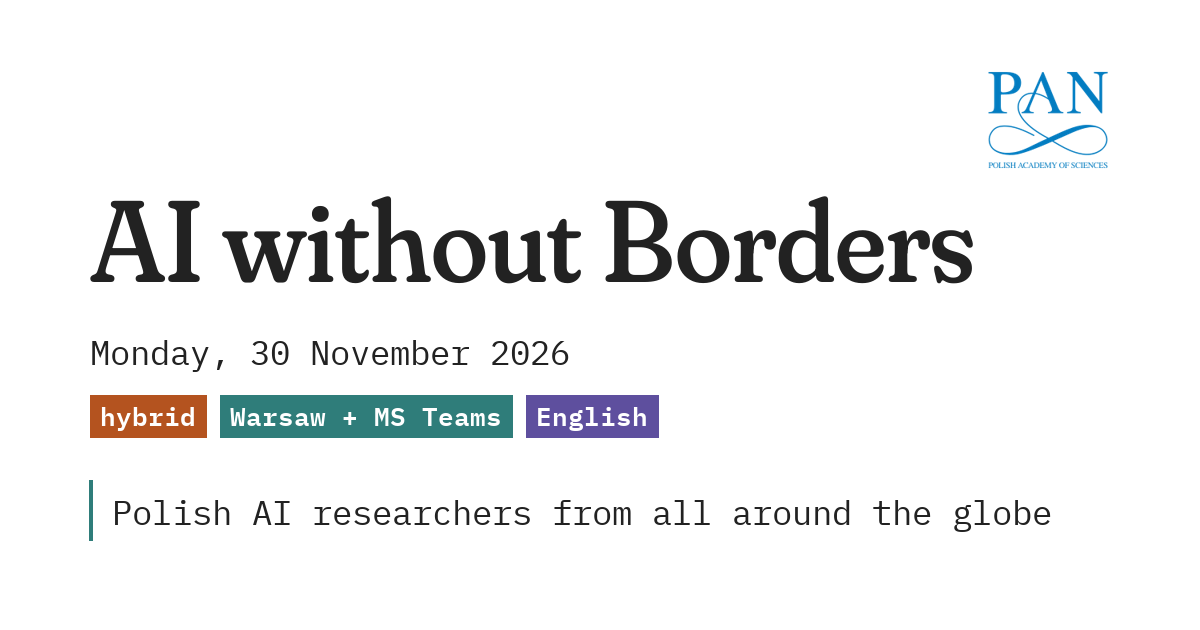
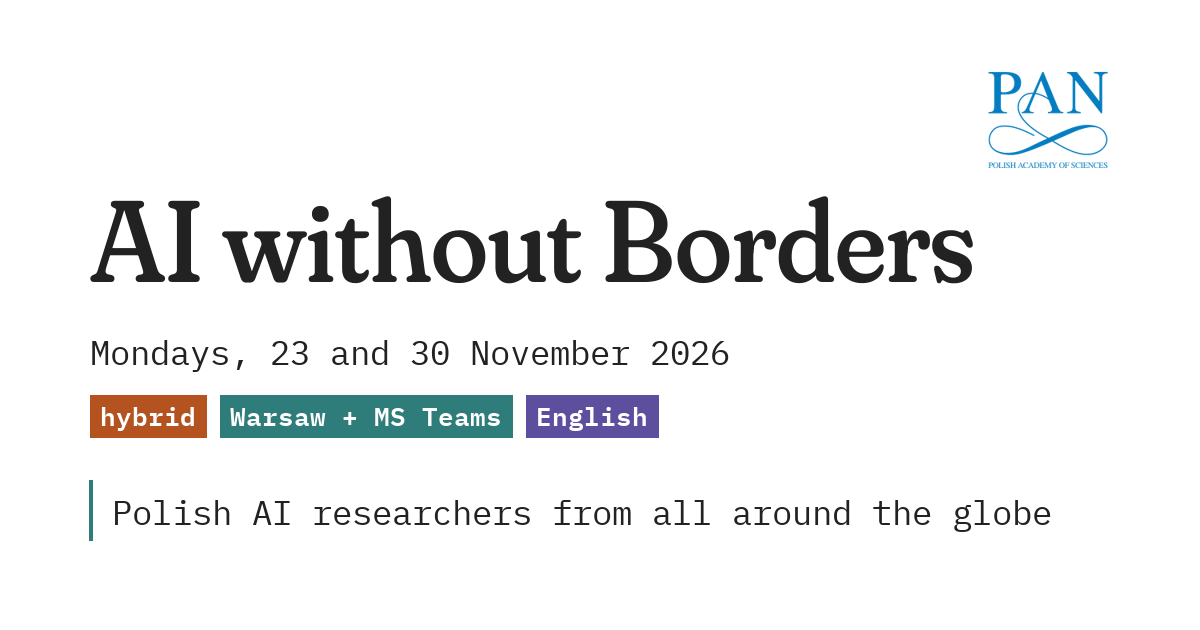
Day 1: photos, websites and bios for five speakers; share image dates

Changed region(s): [[0.185, 0.5429, 0.6167, 0.6032]]

diff --git a/data/program.js b/data/program.js
@@ -40,9 +40,9 @@ window.EVENTS = [
         speaker: "Tomaž Erjavec",
         affiliation: "Jožef Stefan Institute",
         photo: "photos/erjavec.jpg",
-        website: "",
+        website: "https://nl.ijs.si/et/",
         title: "ParlaMint – Comparable and Interoperable Parliamentary Corpora",
-        bio: "",
+        bio: "Tomaž Erjavec is a Scientific and Professional Counselor in the Department of Knowledge Technologies at the Jožef Stefan Institute in Ljubljana, and works part-time at the Fran Ramovš Institute of the Slovenian Language, ZRC SAZU. He works on language corpora, text encoding standards, digital humanities and language technologies for Slovene. He coordinates CLARIN.SI and received the 2021 Steven Krauwer Award for CLARIN Achievements, partly for his ParlaMint parliamentary corpora.",
         abstract: "The talk presents the ParlaMint corpora of parliamentary debates (https://www.clarin.eu/parlamint) of 29 European countries and autonomous regions, covering at least the period from 2015 to 2022, and containing over 1 billion words. The corpora are uniformly encoded, contain rich metadata about their 24 thousand speakers, and are linguistically annotated, as well as machine translated to English. We present the compilation of the corpora, including the encoding infrastructure, use of GitHub, the production of individual corpora, the common pipeline for producing their distribution, and use of CLARIN services for dissemination. We also present associated efforts, such corpora of additional countries, and the ParlaSpeech (https://clarinsi.github.io/parlaspeech/) corpora. Finally, the use of the corpora and further work are discussed.",
       },
       {
@@ -50,9 +50,9 @@ window.EVENTS = [
         speaker: "Maciej Ogrodniczuk",
         affiliation: "Institute of Computer Science, Polish Academy of Sciences",
         photo: "photos/ogrodniczuk.jpg",
-        website: "",
+        website: "https://language.ipipan.waw.pl/faculty/maciej-ogrodniczuk",
         title: "Beyond the Polish Parliamentary Corpus",
-        bio: "",
+        bio: "Maciej Ogrodniczuk is an Associate Professor and Head of the Department of Language Modelling at the Institute of Computer Science, Polish Academy of Sciences, in Warsaw. He received his PhD in linguistics in 2006. His research focuses on the semantic description of Polish, in particular automated analysis of reference relations and discourse. He leads his group's work in CLARIN-PL and the PressMint project on corpora of European historical newspapers.",
         abstract: "The Polish Parliamentary Corpus (https://clip.ipipan.waw.pl/PPC), which is also represented in ParlaMint, served as a model for a series of Polish corpora containing similar types of material, which are ideally suited to research into persuasion techniques. The presentation will introduce these datasets: the Round Table Corpus (https://clip.ipipan.waw.pl/PRTC), documenting the opposition’s negotiations with the communist authorities of the Polish People’s Republic in 1989, and the Polish Local Government Debates Corpus (https://zil.ipipan.waw.pl/LocalGovPL) – a collection of transcripts from the proceedings of provincial assemblies, city councils, county councils and local councils from 2018 to 2026.",
       },
       { time: "10:45–11:15", text: "Networking coffee break", kind: "break" },
@@ -62,9 +62,9 @@ window.EVENTS = [
         speaker: "Jakub Piskorski",
         affiliation: "Joint Research Centre of the European Commission",
         photo: "photos/piskorski.jpg",
-        website: "",
+        website: "http://www.piskorski.waw.pl/",
         title: "Multilingual Corpora of Persuasion Techniques in News and Parliamentary Debates",
-        bio: "",
+        bio: "Jakub Piskorski works on information extraction and media analysis, including disinformation and propaganda detection, persuasion techniques, framing and narrative extraction. He has worked at the Joint Research Centre of the European Commission in Ispra, Frontex and the German Research Center for Artificial Intelligence (DFKI), and is affiliated with the Institute of Computer Science, Polish Academy of Sciences. He co-organised SemEval 2025 Task 10 on narratives in online news.",
         abstract: "This talk provides an overview of recently developed multilingual corpora with text span-level annotation of persuasion techniques in online news, parliamentary debates, and other types of texts. The talk will elaborate on the corpora characteristics, taxonomies, creation process, and annotation complexity aspects. The talk will also reflect on the experience gained from shared tasks revolving around detection and classification of persuasion techniques which exploit these corpora, and covers state-of-the-art performance and cross-corpora comparison.",
       },
       {
@@ -72,9 +72,9 @@ window.EVENTS = [
         speaker: "Arkadiusz Modzelewski",
         affiliation: "University of Padua / NASK",
         photo: "photos/modzelewski.jpg",
-        website: "",
+        website: "https://amodzelewski.com/",
         title: "Leveraging Persuasion and Intent for Analysis and Reasoning-based Detection of Disinformation with Large Language Models",
-        bio: "",
+        bio: "Arkadiusz Modzelewski is a PhD candidate under a joint (cotutelle) agreement between the University of Padua and the Polish-Japanese Academy of Information Technology, and a Senior NLP Specialist at NASK National Research Institute in Warsaw. His research uses large language models to detect disinformation, manipulation and persuasion techniques in text. He co-organised the SlavicNLP 2025 shared task on persuasion techniques in parliamentary debates and social media.",
         abstract: "This talk introduces novel human-annotated disinformation datasets that enable the analysis of manipulation techniques and malicious intent in Polish and English. It presents reasoning approaches that explicitly incorporate persuasion and intent to improve LLM-based disinformation detection across domains, genres, and languages. Finally, it introduces a multilingual benchmark of human- and AI-generated persuasive content, showing that AI-generated persuasive text exhibits linguistic differences and poses new challenges for detection. Overall, the talk presents new datasets, reasoning frameworks, and empirical insights toward more transparent and generalizable disinformation detection in the era of generative AI.",
       },
       { time: "12:45–13:30", text: "Networking lunch in the conference area", kind: "break" },
@@ -84,9 +84,9 @@ window.EVENTS = [
         speaker: "Philipp Mayr-Schlegel",
         affiliation: "GESIS – Leibniz Institute for the Social Sciences",
         photo: "photos/mayr-schlegel.jpg",
-        website: "",
+        website: "https://philippmayr.github.io/",
         title: "",
-        bio: "",
+        bio: "Philipp Mayr-Schlegel is team leader for Information and Data Retrieval in the Knowledge Technologies for the Social Sciences department at GESIS – Leibniz Institute for the Social Sciences. He received his PhD from Humboldt University Berlin in 2009. His research covers interactive information retrieval, scholarly recommendation systems, bibliometric methods and digital libraries. He was General Chair of the European Conference on Information Retrieval (ECIR) in 2019.",
         abstract: "",
       },
       {

diff --git a/index.html b/index.html
@@ -18,7 +18,7 @@
   <link rel="preconnect" href="https://fonts.googleapis.com">
   <link rel="preconnect" href="https://fonts.gstatic.com" crossorigin>
   <link href="https://fonts.googleapis.com/css2?family=Fraunces:opsz,wght,SOFT,WONK@9..144,400..500,100,0&family=IBM+Plex+Mono:wght@400;600&family=IBM+Plex+Sans:wght@400;600&display=swap" rel="stylesheet">
-  <link rel="stylesheet" href="assets/style.css?v=202611051829">
+  <link rel="stylesheet" href="assets/style.css?v=202611051835">
 </head>
 <body>
   <main class="page">
@@ -90,7 +90,7 @@
     </footer>
   </main>
 
-  <script src="data/program.js?v=202611051829"></script>
-  <script src="assets/app.js?v=202611051829"></script>
+  <script src="data/program.js?v=202611051835"></script>
+  <script src="assets/app.js?v=202611051835"></script>
 </body>
 </html>
